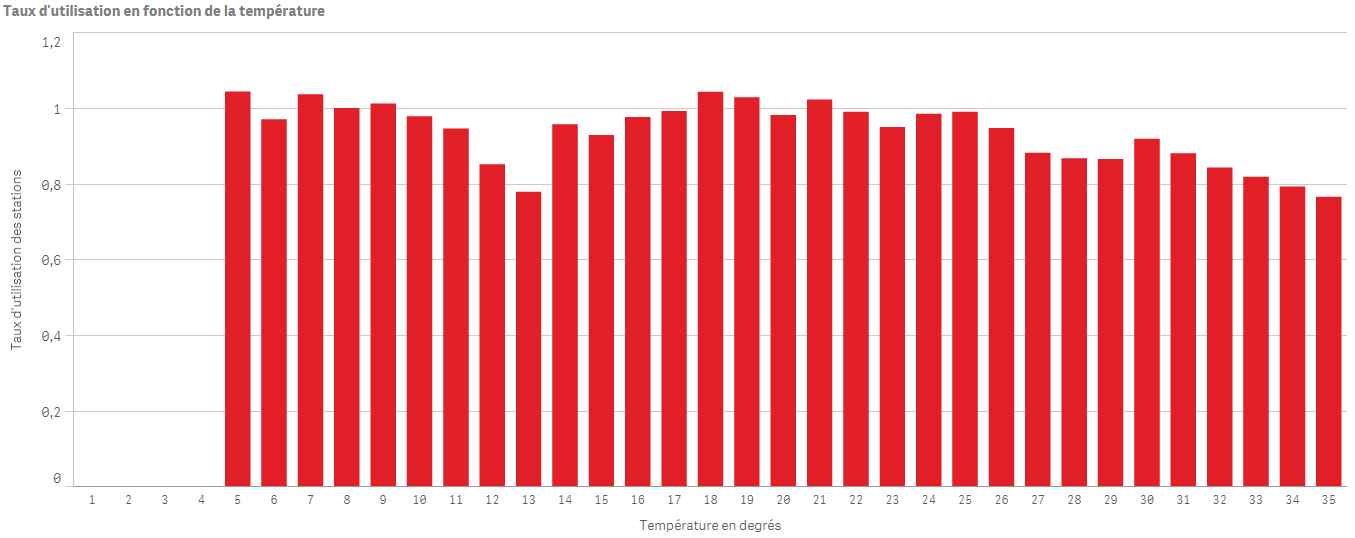
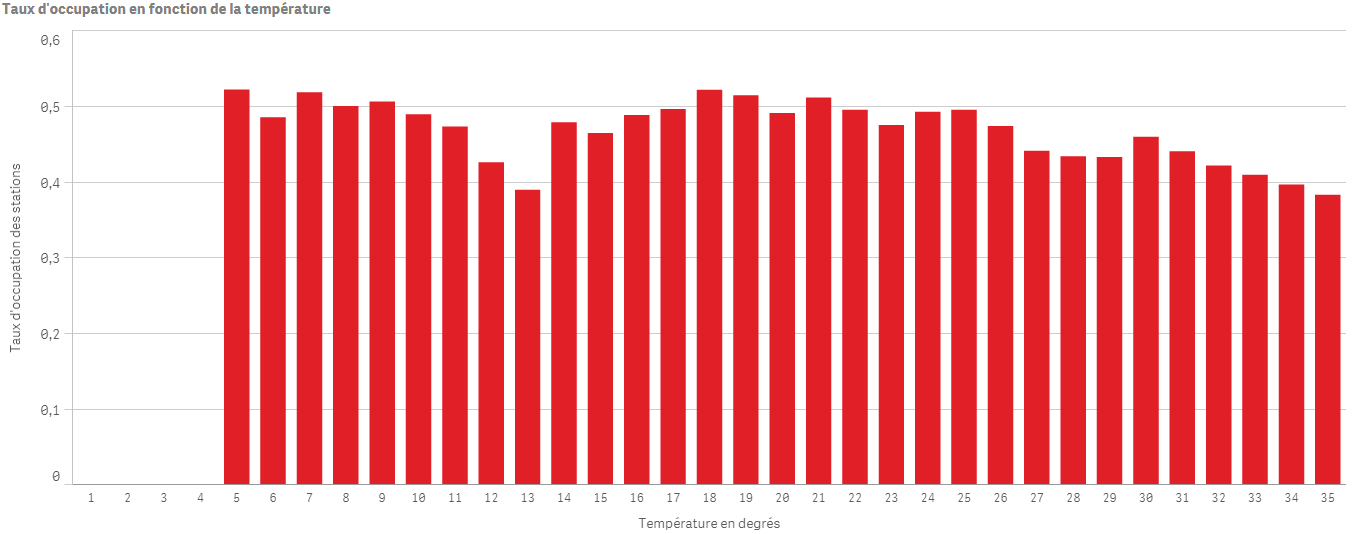
Push #23 : IMG Correction + Data correction
Correction for KPI #23 & #24

diff --git a/scripts/script.js b/scripts/script.js
@@ -1000,7 +1000,7 @@ var chartAttributes = {
 			labels: ["5°C", "6°C", "7°C", "8°C", "9°C", "10°C", "11°C", "12°C", "13°C", "14°C", "15°C", "16°C", "17°C", "18°C", "19°C", "20°C", "21°C", "22°C", "23°C", "24°C", "25°C", "26°C", "27°C", "28°C", "29°C", "30°C", "31°C", "32°C", "33°C", "34°C", "35°C"],
 			datasets: [{
 				label: 'Taux d\'utilisation en fonction de la température',
-				data: [1.042, 0.969, 1.035, 0.999, 1.011, 0.977, 0.945, 0.85, 0.778, 0.956, 0.928, 0.975, 0.991, 1.042, 1.028, 0.98, 1.022, 0.989, 0.949, 0.984, 0.989, 0.946, 0.881, 0.866, 0.865, 0.918, 0.879, 0.842, 0.818, 0.791, 0.764],
+				data: [0.521, 0.485, 0.518, 0.5, 0.506, 0.489, 0.472, 0.425, 0.389, 0.478, 0.464, 0.488, 0.496, 0.521, 0.514, 0.49, 0.511, 0.495, 0.475, 0.492, 0.495, 0.473, 0.44, 0.433, 0.432, 0.459, 0.44, 0.421, 0.409, 0.396, 0.382],
 				backgroundColor: 'rgb(225,31,38)'
 			}]
 		},
@@ -1029,7 +1029,7 @@ var chartAttributes = {
 			labels: ["17", "18", "19", "20", "21", "22", "23", "24", "25", "26", "27", "28", "29", "30", "31", "32", "33", "34", "35", "36", "37", "38", "39", "40", "41", "42", "43", "44", "45", "46", "47", "48", "49", "50", "51", "52", "53", "54", "55", "56", "57", "58", "59", "60", "61", "62", "63", "64", "65", "66", "67", "68", "69", "70", "71", "72", "73", "74", "75", "76", "77", "78", "80", "81", "82", "83", "85", "86", "87", "88", "92", "93", "94"],
 			datasets: [{
 				label: 'Taux d\'utilisation en fonction de l\'humidité',
-				data: [0.865, 0.711, 0.823, 0.764, 0.922, 0.793, 0.816, 0.888, 0.813, 0.868, 0.837, 0.846, 0.882, 0.836, 0.864, 0.911, 0.882, 0.823, 0.866, 0.963, 0.892, 0.906, 0.893, 0.9, 1.005, 0.865, 0.963, 0.922, 0.954, 1.032, 0.929, 1.001, 1.031, 0.947, 0.894, 0.95, 0.995, 0.866, 0.974, 0.986, 1.007, 0.974, 0.945, 1.04, 0.984, 0.932, 0.902, 1.016, 0.988, 1.011, 0.908, 1.023, 0.996, 1.028, 0.972, 1.024, 0.984, 1.003, 1.03, 1.003, 0.987, 1.038, 1.06, 1.001, 0.976, 1.019, 1.047, 0.974, 1.045, 1.005, 1.026, 0.887, 0.992],
+				data: [0.432, 0.355, 0.412, 0.382, 0.461, 0.397, 0.408, 0.444, 0.407, 0.434, 0.419, 0.423, 0.441, 0.418, 0.432, 0.455, 0.441, 0.411, 0.433, 0.481, 0.446, 0.453, 0.447, 0.45, 0.503, 0.433, 0.482, 0.461, 0.477, 0.516, 0.464, 0.5, 0.516, 0.474, 0.447, 0.497, 0.433, 0.487, 0.493, 0.503, 0.487, 0.473, 0.52, 0.492, 0.466, 0.451, 0.508, 0.494, 0.506, 0.454, 0.512, 0.498, 0.514, 0.486, 0.512, 0.492, 0.502, 0.515, 0.502, 0.493, 0.519, 0.53, 0.5, 0.488, 0.51, 0.524, 0.487, 0.523, 0.502, 0.513, 0.443, 0.496, 0.501],
 				backgroundColor: 'rgb(225,31,38)'
 			}]
 		},
